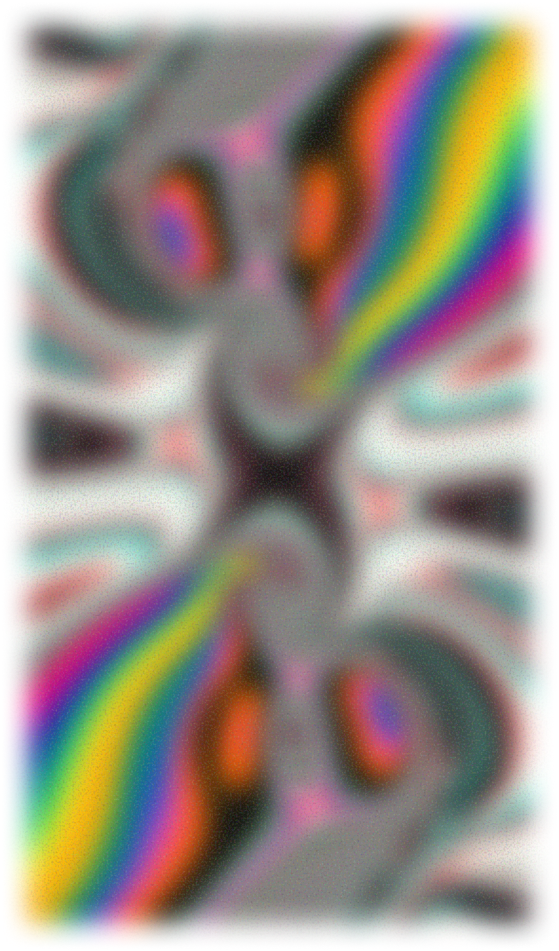
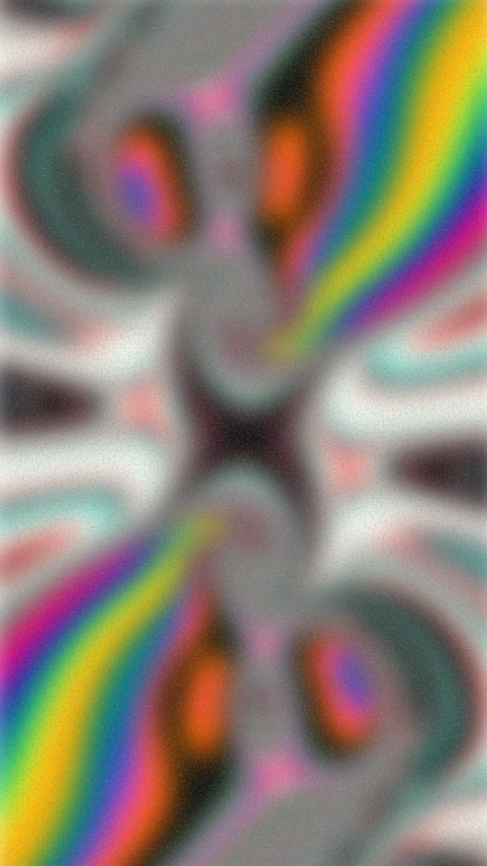
Changes

diff --git a/src/pages/Profile.tsx b/src/pages/Profile.tsx
@@ -26,7 +26,7 @@ const Profile = () => {
   };
 
   const handleManageSubscription = () => {
-    alert("Subscription management will be enabled later.");
+    window.open("https://bloomgen.app/support", '_blank');
   };
 
   const openLink = (url: string) => {
@@ -37,8 +37,13 @@ const Profile = () => {
     <div className="h-screen w-screen relative overflow-hidden">
       {/* Fixed Background */}
       <div 
-        className="fixed inset-0 bg-cover bg-center bg-no-repeat"
-        style={{ backgroundImage: `url(${personalBg})` }}
+        className="fixed inset-0 bg-center bg-no-repeat overflow-hidden"
+        style={{ 
+          backgroundImage: `url(${personalBg})`,
+          backgroundSize: 'cover',
+          transform: 'scale(1.1)',
+          transformOrigin: 'center center'
+        }}
       />
 
       {/* Scrollable Content */}
